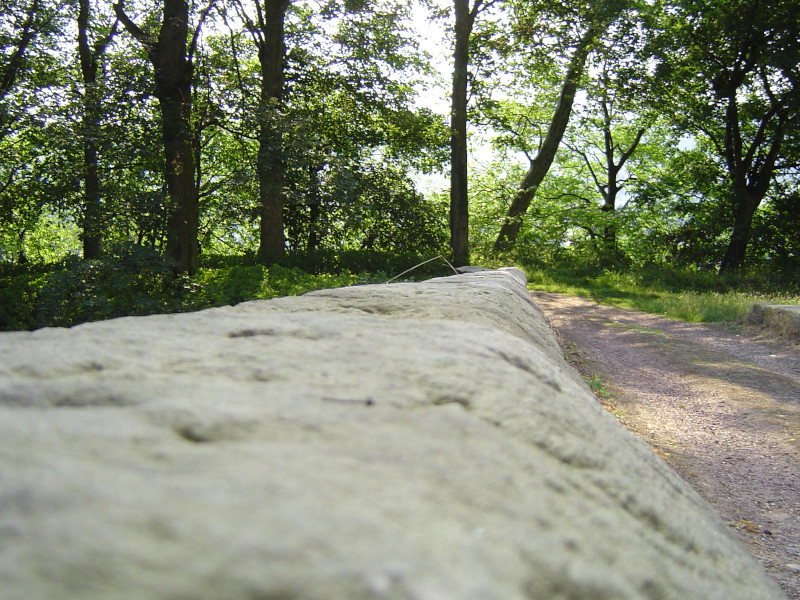
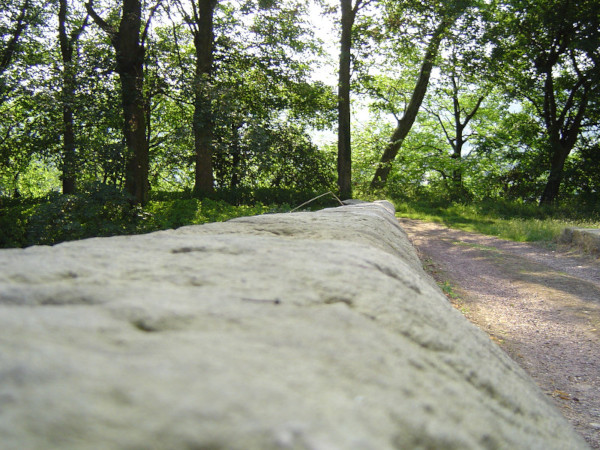
Add 2 poems, a picture, resize pictures

diff --git a/content/fr/charts/season-19-pie.js b/content/fr/charts/season-19-pie.js
@@ -9,13 +9,13 @@ import { addPieChart } from './add-chart.js'
     { label: 'Enfance et adolescence', value: 3, color: 'rgba(247, 235, 253, 1)' },
     { label: 'Espoir', value: 2, color: 'rgba(234, 191, 250, 1)' },
     { label: 'Portraits', value: 1, color: 'rgba(179, 51, 233, 1)' },
-    { label: 'Temps', value: 1, color: 'rgba(140, 7, 221, 1)' },
+    { label: 'Temps', value: 2, color: 'rgba(140, 7, 221, 1)' },
     { label: 'Etre', value: 1, color: 'rgba(105, 16, 168, 1)' },
     { label: 'Neige', value: 1, color: 'rgba(183, 239, 197, 1)' },
-    { label: 'Flore', value: 1, color: 'rgba(146, 230, 167, 1)' },
+    { label: 'Flore', value: 2, color: 'rgba(146, 230, 167, 1)' },
     { label: 'Jardin et paysage', value: 2, color: 'rgba(74, 214, 109, 1)' },
     { label: 'Ciel', value: 2, color: 'rgba(26, 116, 49, 1)' },
-    { label: 'Printemps', value: 4, color: 'rgba(255, 182, 39, 1)' },
+    { label: 'Printemps', value: 5, color: 'rgba(255, 182, 39, 1)' },
     { label: 'Eté', value: 1, color: 'rgba(255, 149, 5, 1)' },
     { label: 'Automne', value: 1, color: 'rgba(226, 113, 29, 1)' },
     { label: 'Hiver', value: 1, color: 'rgba(204, 88, 3, 1)' },

diff --git a/content/fr/charts/poem-dayofweek-pie.js b/content/fr/charts/poem-dayofweek-pie.js
@@ -4,10 +4,10 @@ import { addPieChart } from './add-chart.js'
     { label: 'Lundi', value: 142, color: 'rgba(72, 149, 239, 0.30000000000000004)' },
     { label: 'Mardi', value: 129, color: 'rgba(72, 149, 239, 0.4)' },
     { label: 'Mercredi', value: 138, color: 'rgba(72, 149, 239, 0.5)' },
-    { label: 'Jeudi', value: 92, color: 'rgba(72, 149, 239, 0.6000000000000001)' },
+    { label: 'Jeudi', value: 93, color: 'rgba(72, 149, 239, 0.6000000000000001)' },
     { label: 'Vendredi', value: 120, color: 'rgba(72, 149, 239, 0.7)' },
     { label: 'Samedi', value: 140, color: 'rgba(72, 149, 239, 0.8)' },
-    { label: 'Dimanche', value: 149, color: 'rgba(72, 149, 239, 0.9000000000000001)' },
+    { label: 'Dimanche', value: 150, color: 'rgba(72, 149, 239, 0.9000000000000001)' },
   ];
   addPieChart('poemDayOfWeekPie', [data], 'Par jour de la semaine');
 })();

diff --git a/content/fr/charts/poem-interval-bar.js b/content/fr/charts/poem-interval-bar.js
@@ -3,8 +3,8 @@ import { addBarChart } from './add-chart.js'
   const data = [
     { label: 'Moins d\'un jour', value: 166, color: 'rgba(72, 149, 239, 1)' },
     { label: 'Un jour', value: 259, color: 'rgba(72, 149, 239, 0.9)' },
-    { label: '2j', value: 128, color: 'rgba(72, 149, 239, 0.7)' },
-    { label: '3j', value: 90, color: 'rgba(72, 149, 239, 0.7)' },
+    { label: '2j', value: 129, color: 'rgba(72, 149, 239, 0.7)' },
+    { label: '3j', value: 91, color: 'rgba(72, 149, 239, 0.7)' },
     { label: '4j', value: 63, color: 'rgba(72, 149, 239, 0.7)' },
     { label: '5j', value: 47, color: 'rgba(72, 149, 239, 0.7)' },
     { label: '6j', value: 25, color: 'rgba(72, 149, 239, 0.7)' },

diff --git a/content/fr/charts/season-19-poem-interval-bar.js b/content/fr/charts/season-19-poem-interval-bar.js
@@ -3,8 +3,8 @@ import { addBarChart } from './add-chart.js'
   const data = [
     { label: 'Moins d\'un jour', value: 3, color: 'rgba(72, 149, 239, 1)' },
     { label: 'Un jour', value: 4, color: 'rgba(72, 149, 239, 0.9)' },
-    { label: '2j', value: 2, color: 'rgba(72, 149, 239, 0.7)' },
-    { label: '3j', value: 1, color: 'rgba(72, 149, 239, 0.7)' },
+    { label: '2j', value: 3, color: 'rgba(72, 149, 239, 0.7)' },
+    { label: '3j', value: 2, color: 'rgba(72, 149, 239, 0.7)' },
     { label: '4j', value: 4, color: 'rgba(72, 149, 239, 0.7)' },
     { label: '5j', value: 3, color: 'rgba(72, 149, 239, 0.7)' },
     { label: '6j', value: 1, color: 'rgba(72, 149, 239, 0.7)' },

diff --git a/content/fr/charts/poems-length-pie.js b/content/fr/charts/poems-length-pie.js
@@ -3,7 +3,7 @@ import { addPieChart } from './add-chart.js'
   const data = [
     { label: '1 quatrain', value: 12, color: 'rgba(72, 149, 239, 0.4)' },
     { label: '2 quatrains', value: 94, color: 'rgba(72, 149, 239, 0.5)' },
-    { label: '3 quatrains', value: 346, color: 'rgba(72, 149, 239, 0.6000000000000001)' },
+    { label: '3 quatrains', value: 348, color: 'rgba(72, 149, 239, 0.6000000000000001)' },
     { label: '4 quatrains', value: 203, color: 'rgba(72, 149, 239, 0.7000000000000001)' },
     { label: '5 quatrains', value: 55, color: 'rgba(72, 149, 239, 0.8)' },
     { label: '6 quatrains', value: 10, color: 'rgba(72, 149, 239, 0.9)' },

diff --git a/content/fr/charts/season-19-poems-length-pie.js b/content/fr/charts/season-19-poems-length-pie.js
@@ -2,7 +2,7 @@ import { addPieChart } from './add-chart.js'
 (async function () {
   const data = [
     { label: '2 quatrains', value: 1, color: 'rgba(72, 149, 239, 0.5)' },
-    { label: '3 quatrains', value: 6, color: 'rgba(72, 149, 239, 0.6000000000000001)' },
+    { label: '3 quatrains', value: 8, color: 'rgba(72, 149, 239, 0.6000000000000001)' },
     { label: '4 quatrains', value: 6, color: 'rgba(72, 149, 239, 0.7000000000000001)' },
     { label: '5 quatrains', value: 3, color: 'rgba(72, 149, 239, 0.8)' },
     { label: '6 quatrains', value: 1, color: 'rgba(72, 149, 239, 0.9)' },

diff --git a/content/fr/charts/poem-intensity-pie.js b/content/fr/charts/poem-intensity-pie.js
@@ -1,7 +1,7 @@
 import { addPieChart } from './add-chart.js'
 (async function () {
   const data = [
-    { label: '1 poème', value: 613, color: 'rgba(72, 149, 239, 0.5)' },
+    { label: '1 poème', value: 615, color: 'rgba(72, 149, 239, 0.5)' },
     { label: '2 poèmes', value: 106, color: 'rgba(72, 149, 239, 0.6)' },
     { label: '3 poèmes', value: 18, color: 'rgba(72, 149, 239, 0.7)' },
     { label: '4 poèmes', value: 4, color: 'rgba(72, 149, 239, 0.8)' },

diff --git a/content/fr/charts/poems-day-radar.js b/content/fr/charts/poems-day-radar.js
@@ -67,10 +67,10 @@ import { addRadarChart } from './add-chart.js'
     { label: '', value: 3 },
     { label: '', value: 4 },
     { label: '', value: 1 },
+    { label: '', value: 3 },
+    { label: '', value: 0 },
+    { label: '', value: 0 },
     { label: '', value: 2 },
-    { label: '', value: 0 },
-    { label: '', value: 0 },
-    { label: '', value: 1 },
     { label: '', value: 1 },
     { label: '', value: 3 },
     { label: '', value: 1 },

diff --git a/content/fr/charts/poems-day-2024-radar.js b/content/fr/charts/poems-day-2024-radar.js
@@ -67,10 +67,10 @@ import { addRadarChart } from './add-chart.js'
     { label: '', value: 1 },
     { label: '', value: 2 },
     { label: '', value: 0 },
+    { label: '', value: 1 },
     { label: '', value: 0 },
     { label: '', value: 0 },
-    { label: '', value: 0 },
-    { label: '', value: 0 },
+    { label: '', value: 1 },
     { label: '', value: 0 },
     { label: '', value: 0 },
     { label: '', value: 0 },

diff --git a/content/fr/charts/poems-length-bar.js b/content/fr/charts/poems-length-bar.js
@@ -7,7 +7,7 @@ import { addBarChart } from './add-chart.js'
     { label: '6', value: 30 },
     { label: '8', value: 106 },
     { label: '10', value: 56 },
-    { label: '12', value: 352 },
+    { label: '12', value: 354 },
     { label: '14', value: 48 },
     { label: '16', value: 210 },
     { label: '18', value: 9 },

diff --git a/content/fr/charts/poems-verse-length-bar.js b/content/fr/charts/poems-verse-length-bar.js
@@ -7,7 +7,7 @@ import { addBarChart } from './add-chart.js'
     { label: '5', value: 23 },
     { label: '6', value: 200 },
     { label: '7', value: 66 },
-    { label: '8', value: 336 },
+    { label: '8', value: 338 },
     { label: '9', value: 7 },
     { label: '10', value: 35 },
     { label: '11', value: 16 },

diff --git a/content/fr/charts/poems-day-flore-radar.js b/content/fr/charts/poems-day-flore-radar.js
@@ -70,7 +70,7 @@ import { addRadarChart } from './add-chart.js'
     { label: '', value: 0 },
     { label: '', value: 0 },
     { label: '', value: 0 },
-    { label: '', value: 0 },
+    { label: '', value: 1 },
     { label: '', value: 0 },
     { label: '', value: 1 },
     { label: '', value: 0 },
